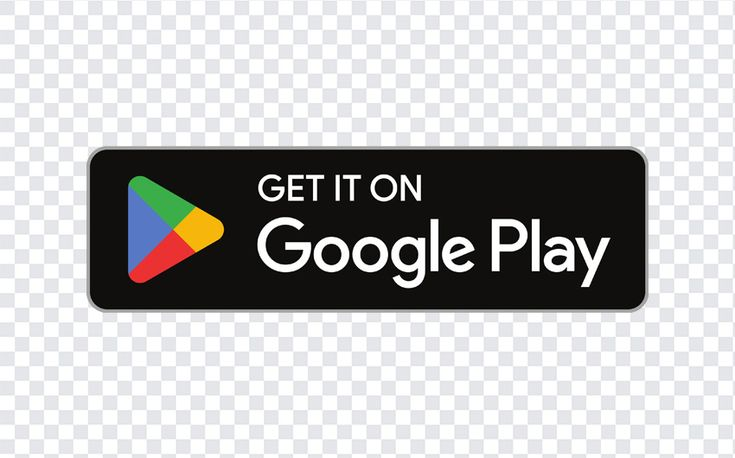
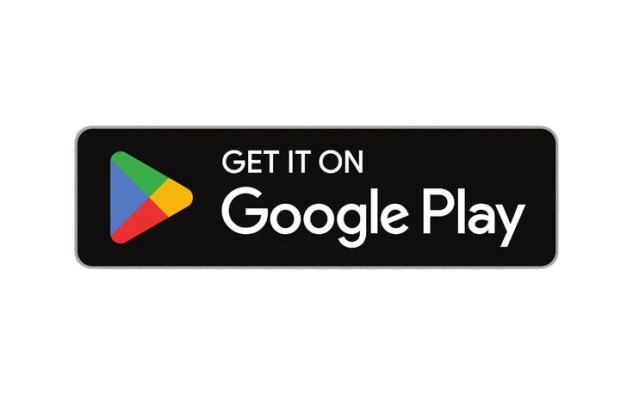
Fix google play badge size

Changed region(s): [[0.0, 0.0, 1.0, 1.0]]

diff --git a/components/home/MobileAppSection.tsx b/components/home/MobileAppSection.tsx
@@ -60,7 +60,7 @@ export function MobileAppSection() {
           >
             <div className="inline-flex items-center gap-1.5 px-3 py-1 bg-sky-50 dark:bg-sky-950/40 text-sky-700 dark:text-sky-300 text-xs font-semibold rounded-full mb-6 border border-sky-100 dark:border-sky-900/30">
               <Smartphone className="h-3.5 w-3.5" />
-              <span>Coming Soon</span>
+              <span>Mobile App</span>
             </div>
             
             <h2 className="text-3xl sm:text-4xl font-black text-[#111827] dark:text-[#F9FAFB] tracking-tight mb-5">
@@ -95,9 +95,8 @@ export function MobileAppSection() {
                     <Image
                       src="/App/Google_Play_Badge.png"
                       alt="Get it on Google Play"
-                      width={162}
-                      height={48}
-                      className="h-12 w-auto"
+                      width={202}
+                      height={50}
                       priority
                     />
                   </a>
